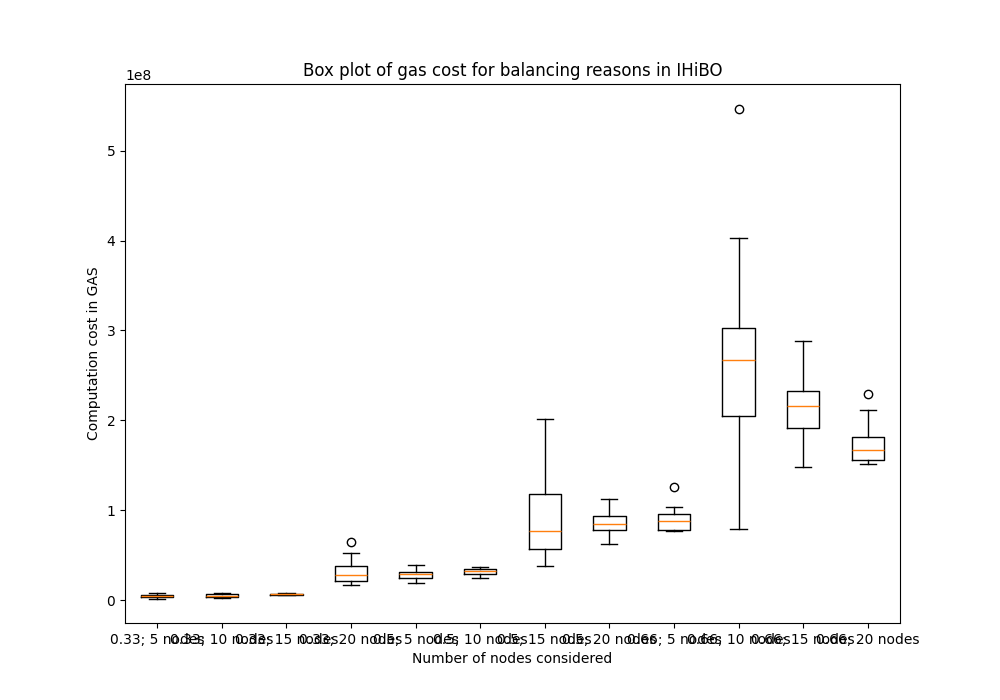
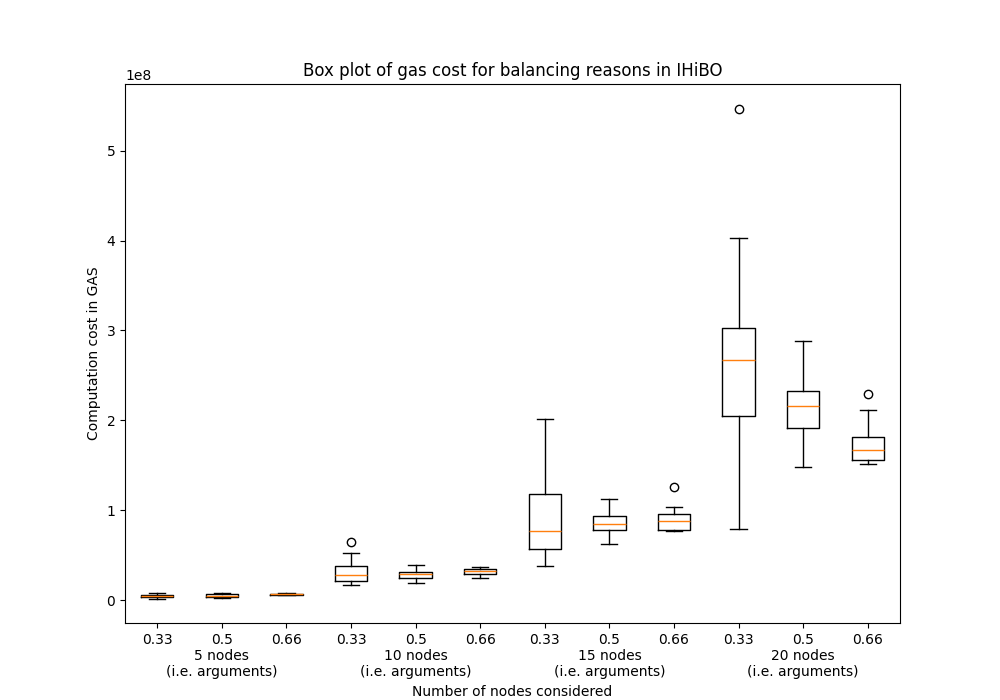
remaining files

Changed region(s): [[0.124, 0.9, 0.93, 1.0]]

diff --git a/wrangling.py b/wrangling.py
@@ -18,6 +18,7 @@ tmpGasAdd = []
 
 boxplotData = []
 boxplotData2 = []
+boxplotData3 = []
 
 
 def plot11():
@@ -228,12 +229,49 @@ def boxplot2():
     # ax = figure.add_axes([0, 0, 1, 1])  
     ax = figure.add_subplot(111)  
     bp = ax.boxplot(boxplotData2)  
-    ax.set_xticklabels(['0.33; 5 nodes', '0.33; 10 nodes','0.33; 15 nodes', '0.33; 20 nodes',
-                        '0.5; 5 nodes', '0.5; 10 nodes','0.5; 15 nodes', '0.5; 20 nodes',
-                        '0.66; 5 nodes', '0.66; 10 nodes', '0.66; 15 nodes', '0.66; 20 nodes'])
+    ax.set_xticklabels(['0.33\n', '0.5\n5 nodes\n(i.e. arguments)', '0.66\n',
+                         '0.33\n', '0.5\n10 nodes\n(i.e. arguments)', '0.66\n',
+                         '0.33\n', '0.5\n15 nodes\n(i.e. arguments)', '0.66\n',
+                         '0.33\n', '0.5\n20 nodes\n(i.e. arguments)', '0.66\n'])
     plt.ylabel('Computation cost in GAS')  
     plt.xlabel('Number of nodes considered')
-    plt.title("Box plot of gas cost for balancing reasons in IHiBO")  
+    plt.title("Box plot of gas cost for abstract argumentation in IHiBO")  
+    # ax.get_xaxis().tick_bottom()  
+    # ax.get_yaxis().tick_left()    
+    plt.show()  
+    plt.savefig('./addboxplot.png', bbox_inches='tight', dpi=300)
+
+def boxplot3():
+    # print(boxplotData[1:5])
+    # print(len(boxplotData[1:5]))
+
+    figure = plt.figure(figsize =(10, 7))  
+    # ax = figure.add_axes([0, 0, 1, 1])  
+    ax = figure.add_subplot(111)  
+    bp = ax.boxplot(boxplotData3)  
+    ax.set_xticklabels(['5 nodes', '10 nodes','15 nodes', '20 nodes'])
+    plt.ylabel('Computation cost in GAS')  
+    plt.xlabel('Number of nodes considered')
+    plt.title("Box plot of gas cost for abstract argumentation in IHiBO (Aggregated)")  
+    # ax.get_xaxis().tick_bottom()  
+    # ax.get_yaxis().tick_left()    
+    plt.show()  
+    plt.savefig('./addboxplot.png', bbox_inches='tight', dpi=300)
+
+def boxplot4():
+    # print(boxplotData[1:5])
+    # print(len(boxplotData[1:5]))
+
+    figure = plt.figure(figsize =(10, 7))  
+    # ax = figure.add_axes([0, 0, 1, 1])  
+    ax = figure.add_subplot(111)  
+    bp = ax.boxplot([boxplotData[0],boxplotData3[0],boxplotData[1],boxplotData3[1],
+                     boxplotData[2],boxplotData3[2],boxplotData[3],boxplotData3[3]])  
+    ax.set_xticklabels(['5 nodes\n RbB', '5 nodes\n AA', '10 nodes\n RbB', '10 nodes\n AA',
+                        '15 nodes\n RbB', '15 nodes\n AA','20 nodes\n RbB','20 nodes\n AA'])
+    plt.ylabel('Computation cost in GAS')  
+    plt.xlabel('Number of nodes considered')
+    plt.title("Box plot of gas cost for abstract argumentation in IHiBO (Aggregated)")  
     # ax.get_xaxis().tick_bottom()  
     # ax.get_yaxis().tick_left()    
     plt.show()  
@@ -449,29 +487,87 @@ def plot40():
 #     boxplotData.append(tmp)
 #     boxplot1()
 
-with open('data.csv', 'r') as csvFile:
-    reader = csv.reader(csvFile)
+# with open('data.csv', 'r') as csvFile:
+#     reader = csv.reader(csvFile)
+#     next(reader)
+#     nodesTmp = 5
+#     edgesPTmp = 0.33
+#     tmp = []
+#     for row in reader:
+#         nodesNumber = int(row[0])
+#         edgesNumber = int(row[1])
+#         edgesP = float(row[2])
+#         prefP = float(row[3])
+#         reductionGas = int(row[4])
+#         extensionGas = int(row[5])
+#         totalGas = reductionGas + extensionGas
+
+#         if (nodesNumber != nodesTmp or edgesP != edgesPTmp):
+#             nodesTmp = nodesNumber
+#             edgesPTmp = edgesP
+#             boxplotData2.append(tmp)
+#             tmp = []
+#         tmp.append(totalGas)
+#     boxplotData2.append(tmp)
+#     boxplot2()
+
+# with open('data.csv', 'r') as csvFile:
+#     reader = csv.reader(csvFile)
+#     next(reader)
+#     nodesTmp = 5
+#     edgesPTmp = 0.33
+#     tmp = []
+#     for row in reader:
+#         nodesNumber = int(row[0])
+#         reductionGas = int(row[4])
+#         extensionGas = int(row[5])
+#         totalGas = reductionGas + extensionGas
+
+#         if (nodesNumber != nodesTmp):
+#             nodesTmp = nodesNumber
+#             boxplotData3.append(tmp)
+#             tmp = []
+#         tmp.append(totalGas)
+#     boxplotData3.append(tmp)
+#     boxplot3()
+
+with open('data.csv', 'r') as csvFile1, open('data4.csv', 'r') as csvFile2:
+    reader = csv.reader(csvFile1)
     next(reader)
     nodesTmp = 5
     edgesPTmp = 0.33
     tmp = []
     for row in reader:
         nodesNumber = int(row[0])
-        edgesNumber = int(row[1])
-        edgesP = float(row[2])
-        prefP = float(row[3])
         reductionGas = int(row[4])
         extensionGas = int(row[5])
         totalGas = reductionGas + extensionGas
 
-        if (nodesNumber != nodesTmp or edgesP != edgesPTmp):
+        if (nodesNumber != nodesTmp):
             nodesTmp = nodesNumber
-            edgesPTmp = edgesP
-            boxplotData2.append(tmp)
+            boxplotData3.append(tmp)
             tmp = []
         tmp.append(totalGas)
-    boxplotData2.append(tmp)
-    boxplot2()
+    boxplotData3.append(tmp)
+
+    reader = csv.reader(csvFile2)
+    next(reader)
+    nodesTmp = 5
+    votePTmp = 0.65
+    tmp = []
+    for row in reader:
+        nodesNumber = int(row[0])
+        voteP = float(row[1])
+        additiveGas = int(row[2])
+
+        if (nodesNumber != nodesTmp or voteP != votePTmp):
+            nodesTmp = nodesNumber
+            votePTmp = voteP
+            boxplotData.append(tmp)
+            tmp = []
+        tmp.append(additiveGas)
+    boxplotData.append(tmp)
+    boxplot4()
 
 # with open('data.csv', 'r') as csvFile1, open('data4.csv', 'r') as csvFile2:
 #         reader1 = csv.reader(csvFile1)
